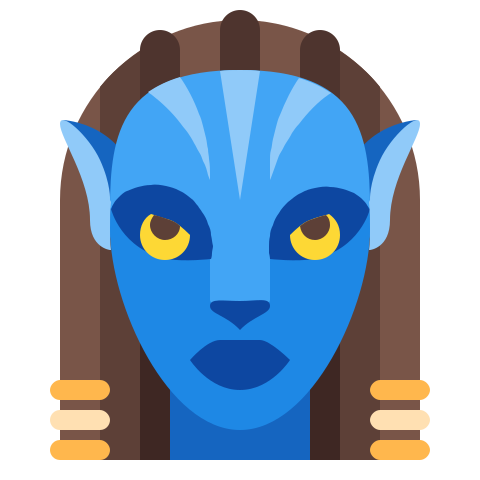
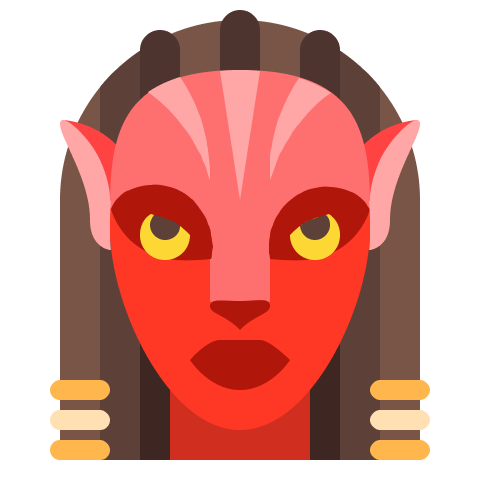
[EDIT] user component

diff --git a/src/components/User.vue b/src/components/User.vue
@@ -6,13 +6,15 @@
             :persistent="dialog.persistent"
             :persistent-no-animation="dialog.persistentNoAnimation"
             title-class="primary-light1--bg white"
-            width="300"
+            :width="dialog.width"
         >
             <div class="space-y-4">
                 <div class="justify-center divide-x">
                     <w-divider class color="grey-dark5">
                         <div class="bg-yellow-200 w-20 h-20 object-cover rounded-full p-1 mx-auto">
-                            <img class="w-16 mx-auto" src="../assets/avatar.png">
+                            <p v-if="selectedImage">
+                                <img class="w-16 mx-auto" :src="selectedImage" />
+                            </p>
                         </div>
                     </w-divider>
                 </div>
@@ -34,13 +36,27 @@
 export default {
     data() {
         return {
+            images: [
+                '../assets/avatar1.png',
+                '../assets/avatar2.png',
+            ],
+            selectedImage: "",
             dialog: {
                 show: false,
                 persistent: false,
                 persistentNoAnimation: false,
+                width: 300
             }
         }
-
+    },
+    methods: {
+        randomItem(items) {
+            return items[Math.floor(Math.random() * items.length)];
+        }
+    },
+    created() {
+        this.selectedImage = this.randomItem(this.images);
+        console.log(this.selectedImage);
     }
 }
 </script>
